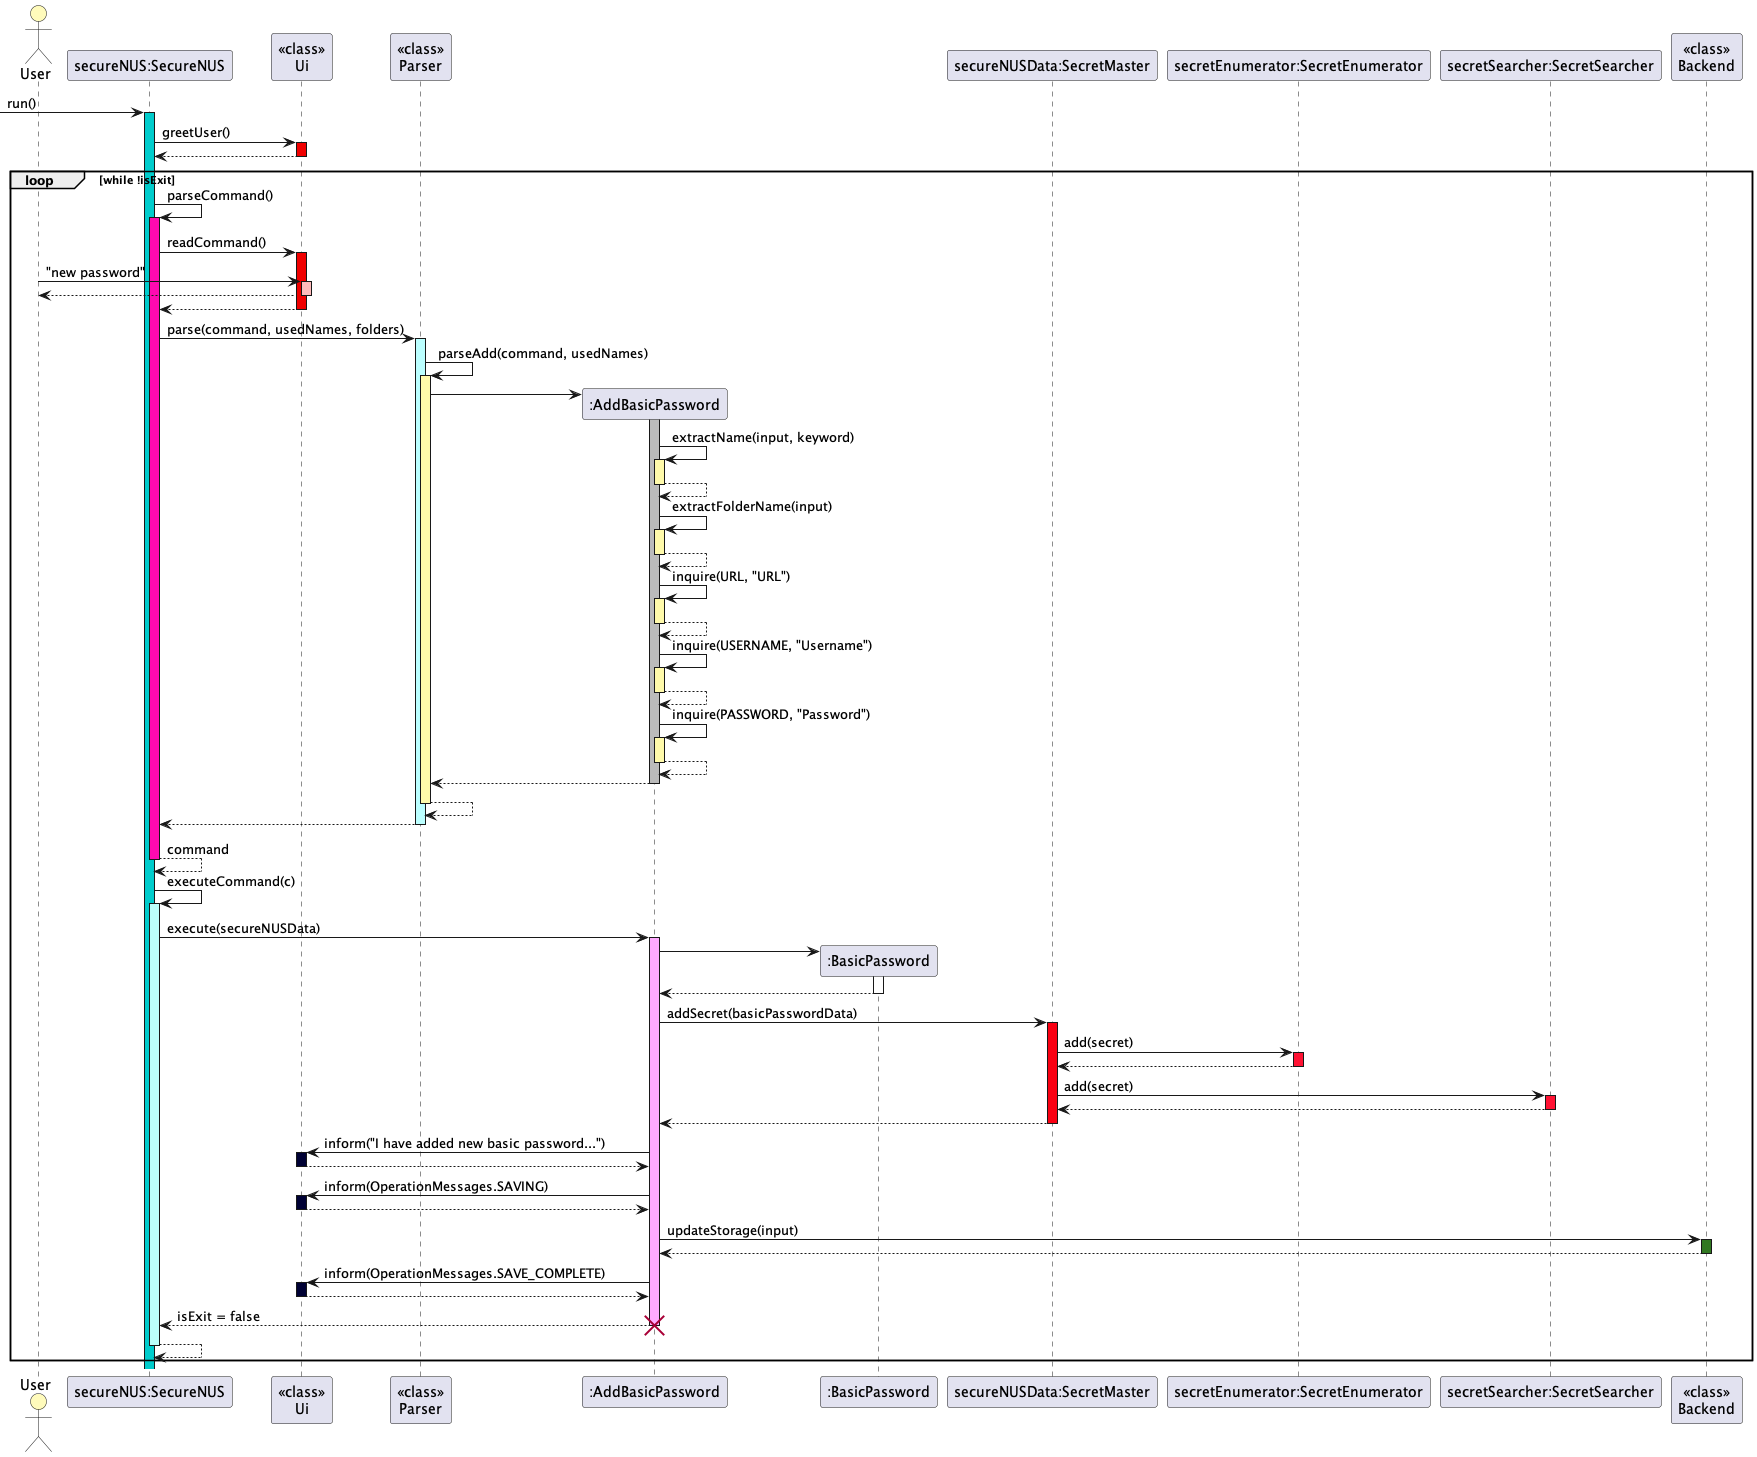
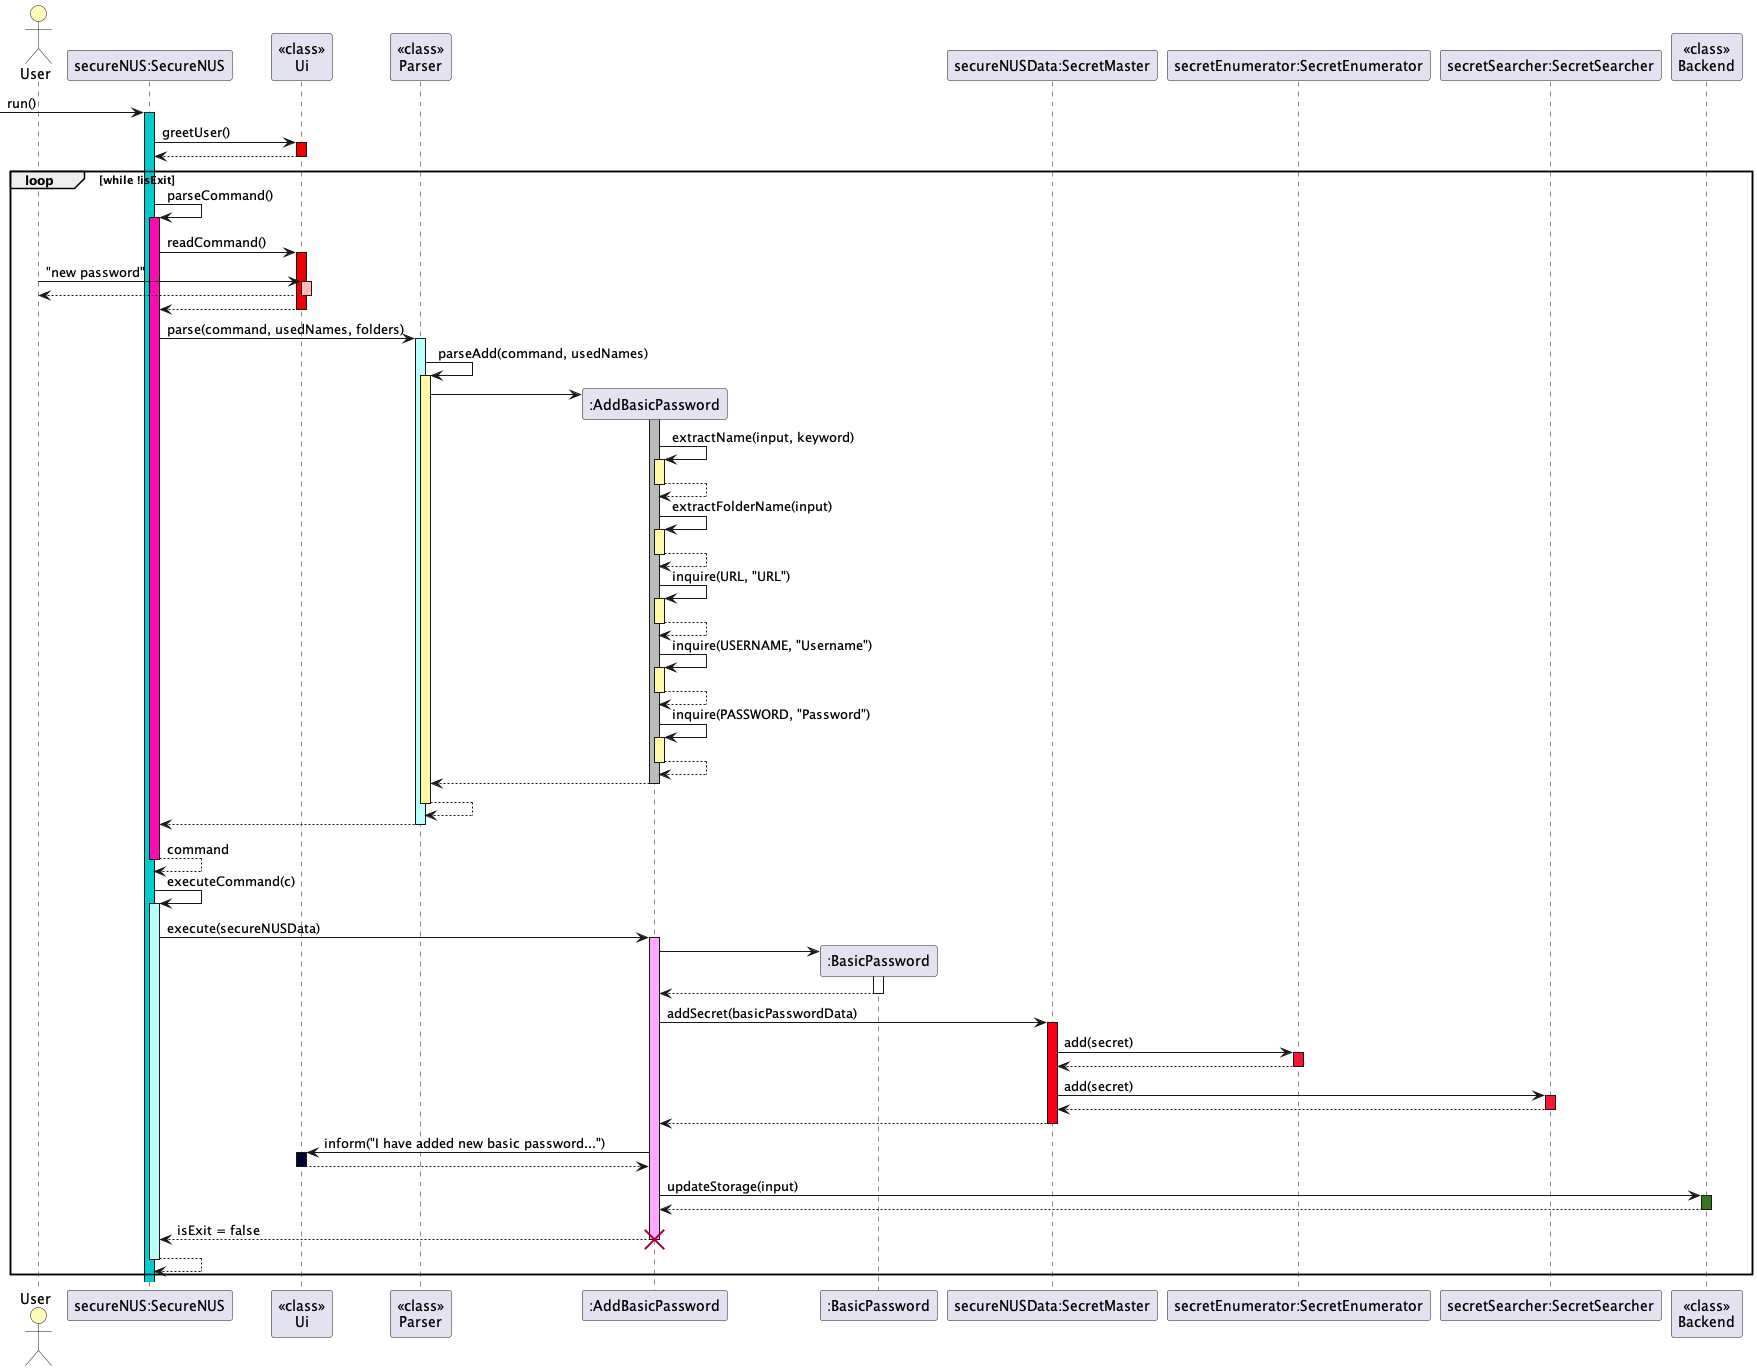
Edited annoying saving messages

diff --git a/src/main/java/seedu/securenus/storage/SecretMaster.java b/src/main/java/seedu/securenus/storage/SecretMaster.java
@@ -1,8 +1,6 @@
 package seedu.securenus.storage;
 
-import seedu.securenus.Backend;
 import seedu.securenus.exceptions.secrets.InvalidCvcNumberException;
-import seedu.securenus.messages.OperationMessages;
 import seedu.securenus.ui.Ui;
 import seedu.securenus.exceptions.secrets.InvalidCreditCardNumberException;
 import seedu.securenus.exceptions.secrets.InvalidExpiryDateException;
@@ -318,9 +316,6 @@ public class SecretMaster {
         secretSearcher.add(secret);
         secretEnumerator.add(secret);
 
-        Ui.inform(OperationMessages.SAVING);
-        Backend.updateStorage(this.listSecrets());
-        Ui.inform(OperationMessages.SAVE_COMPLETE);
     }
 
     /**
@@ -347,10 +342,6 @@ public class SecretMaster {
         if (!folderContainsSecrets(folderName)) {
             folders.remove(folderName);
         }
-
-        Ui.inform(OperationMessages.SAVING);
-        Backend.updateStorage(this.listSecrets());
-        Ui.inform(OperationMessages.SAVE_COMPLETE);
     }
 
     public boolean folderContainsSecrets(String folderName) {

diff --git a/src/main/java/seedu/securenus/command/AddBasicPasswordCommand.java b/src/main/java/seedu/securenus/command/AddBasicPasswordCommand.java
@@ -12,7 +12,6 @@ import seedu.securenus.secrets.BasicPassword;
 import seedu.securenus.storage.SecretMaster;
 import seedu.securenus.ui.Ui;
 import seedu.securenus.Backend;
-import seedu.securenus.messages.OperationMessages;
 
 import java.util.HashSet;
 
@@ -81,15 +80,12 @@ public class AddBasicPasswordCommand extends AddSecretCommand {
         } catch (IllegalFolderNameException e) {
             throw new ExceptionMain("Unknown Error: Basic Password Command");
         }
+        Backend.updateStorage(secureNUSData.listSecrets());
         Ui.inform("I have added a new basic password:\n" +
                 "name     = " + name + "\n" +
                "folder   = " + folderName + "\n" +
                "url      = " + url + "\n" +
                "username = " + username + "\n" +
                "password = " + HIDDEN_FIELD);
-        Ui.inform(OperationMessages.SAVING);
-        Backend.updateStorage(secureNUSData.listSecrets());
-        Ui.inform(OperationMessages.SAVE_COMPLETE);
-
     }
 }

diff --git a/src/main/java/seedu/securenus/command/DeleteCommand.java b/src/main/java/seedu/securenus/command/DeleteCommand.java
@@ -1,5 +1,6 @@
 package seedu.securenus.command;
 
+import seedu.securenus.Backend;
 import seedu.securenus.exceptions.InsufficientParamsException;
 import seedu.securenus.ui.Ui;
 import seedu.securenus.exceptions.secrets.SecretNotFoundException;
@@ -68,12 +69,13 @@ public class DeleteCommand extends Command {
             if (isValid && (deleteData != null)) {
                 try {
                     secureNUSData.removeSecret(deleteData);
-                    System.out.println("Successfully deleted: " + secretName);
+                    Ui.inform("Successfully deleted: " + secretName);
 
                 } catch (SecretNotFoundException e) {
                     Ui.printError("Secret Not Found: " + secretName);
                 }
             }
         }
+        Backend.updateStorage(secureNUSData.listSecrets());
     }
 }

diff --git a/src/main/java/seedu/securenus/command/AddCreditCardCommand.java b/src/main/java/seedu/securenus/command/AddCreditCardCommand.java
@@ -1,7 +1,6 @@
 package seedu.securenus.command;
 
 import seedu.securenus.Backend;
-import seedu.securenus.messages.OperationMessages;
 import seedu.securenus.ui.Ui;
 import seedu.securenus.exceptions.OperationCancelException;
 import seedu.securenus.exceptions.RepeatedIdException;
@@ -82,9 +81,7 @@ public class AddCreditCardCommand extends AddSecretCommand {
                 "CVC No         = " + HIDDEN_FIELD + "\n" +
                 "Expiry Date    = " + HIDDEN_FIELD);
 
-        Ui.inform(OperationMessages.SAVING);
         Backend.updateStorage(secureNUSData.listSecrets());
-        Ui.inform(OperationMessages.SAVE_COMPLETE);
     }
 
     public String inquireCreditCardNumber() throws OperationCancelException {

diff --git a/src/main/java/seedu/securenus/command/AddNUSNetCommand.java b/src/main/java/seedu/securenus/command/AddNUSNetCommand.java
@@ -1,7 +1,6 @@
 package seedu.securenus.command;
 
 import seedu.securenus.Backend;
-import seedu.securenus.messages.OperationMessages;
 import seedu.securenus.exceptions.ExceptionMain;
 import seedu.securenus.exceptions.OperationCancelException;
 import seedu.securenus.exceptions.secrets.FolderExistsException;
@@ -68,9 +67,7 @@ public class AddNUSNetCommand extends AddSecretCommand {
                 "NUS Net ID = " + nusNetId + "\n" +
                 "password   = " + HIDDEN_FIELD);
 
-        Ui.inform(OperationMessages.SAVING);
         Backend.updateStorage(secureNUSData.listSecrets());
-        Ui.inform(OperationMessages.SAVE_COMPLETE);
     }
 
     /**

diff --git a/src/main/java/seedu/securenus/command/AddStudentIDCommand.java b/src/main/java/seedu/securenus/command/AddStudentIDCommand.java
@@ -1,7 +1,6 @@
 package seedu.securenus.command;
 
 import seedu.securenus.Backend;
-import seedu.securenus.messages.OperationMessages;
 import seedu.securenus.exceptions.ExceptionMain;
 import seedu.securenus.exceptions.OperationCancelException;
 import seedu.securenus.exceptions.secrets.FolderExistsException;
@@ -64,9 +63,7 @@ public class AddStudentIDCommand extends AddSecretCommand {
                 "Folder     = " + folderName + "\n" +
                 "Student ID = " + HIDDEN_FIELD);
 
-        Ui.inform(OperationMessages.SAVING);
         Backend.updateStorage(secureNUSData.listSecrets());
-        Ui.inform(OperationMessages.SAVE_COMPLETE);
     }
 
 

diff --git a/src/main/java/seedu/securenus/command/AddCryptoWalletCommand.java b/src/main/java/seedu/securenus/command/AddCryptoWalletCommand.java
@@ -1,7 +1,6 @@
 package seedu.securenus.command;
 
 import seedu.securenus.Backend;
-import seedu.securenus.messages.OperationMessages;
 import seedu.securenus.exceptions.ExceptionMain;
 import seedu.securenus.exceptions.OperationCancelException;
 import seedu.securenus.exceptions.RepeatedIdException;
@@ -72,8 +71,6 @@ public class AddCryptoWalletCommand extends AddSecretCommand {
                 "Private Key= " + HIDDEN_FIELD + "\n" +
                 "Seed Phrase= " + HIDDEN_FIELD);
 
-        Ui.inform(OperationMessages.SAVING);
         Backend.updateStorage(secureNUSData.listSecrets());
-        Ui.inform(OperationMessages.SAVE_COMPLETE);
     }
 }

diff --git a/src/main/java/seedu/securenus/command/AddWifiPasswordCommand.java b/src/main/java/seedu/securenus/command/AddWifiPasswordCommand.java
@@ -1,7 +1,6 @@
 package seedu.securenus.command;
 
 import seedu.securenus.Backend;
-import seedu.securenus.messages.OperationMessages;
 import seedu.securenus.exceptions.ExceptionMain;
 import seedu.securenus.exceptions.OperationCancelException;
 import seedu.securenus.exceptions.RepeatedIdException;
@@ -68,9 +67,6 @@ public class AddWifiPasswordCommand extends AddSecretCommand {
                 "Username   = " + username + "\n" +
                 "Password   = " + HIDDEN_FIELD);
 
-        Ui.inform(OperationMessages.SAVING);
         Backend.updateStorage(secureNUSData.listSecrets());
-        Ui.inform(OperationMessages.SAVE_COMPLETE);
-
     }
 }

diff --git a/src/main/java/seedu/securenus/command/EditCommand.java b/src/main/java/seedu/securenus/command/EditCommand.java
@@ -158,8 +158,8 @@ public class EditCommand extends Command {
         } else {
             Ui.inform("Secret named: \"" + name +"\" of folder: \"" + folderName + "\" has been edited.\n" +
                     "Check it out using the 'search' or 'list' function!");
-            Backend.updateStorage(secureNUSData.listSecrets());
         }
+        Backend.updateStorage(secureNUSData.listSecrets());
 
     }
 }

diff --git a/docs/team/ollayf.md b/docs/team/ollayf.md
@@ -34,7 +34,8 @@ or they did not want to save this password anymore
   - Standardised the UI of the entire application
 - Documentation:
   - User Guide
-    - Did the first full draft of UG [(Pull Requests)](https://github.com/AY2223S2-CS2113-T15-2/tp/pull/66)
+    - Did the first full draft of UG [(Pull Requests)](https://github.com/AY2223S2-CS2113-T15-2/tp/pull/66) 
+    - Help with final checks of UG
   - Developers' Guide
     - 
 - Contribution to team based tasks:
